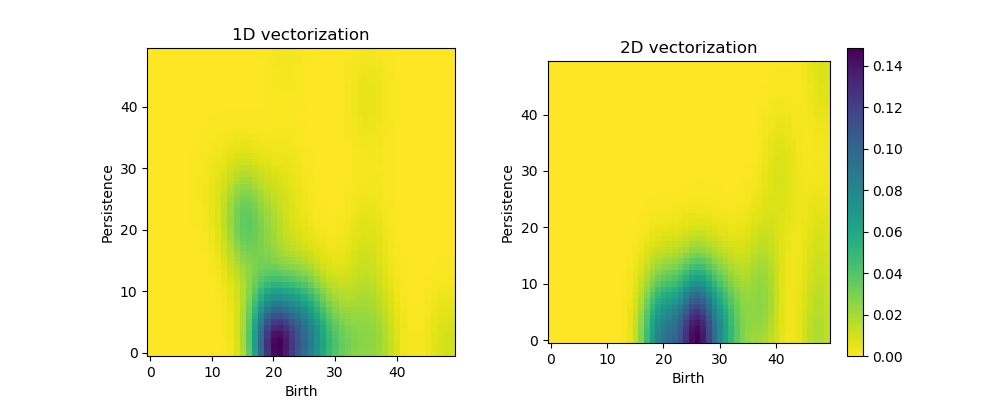
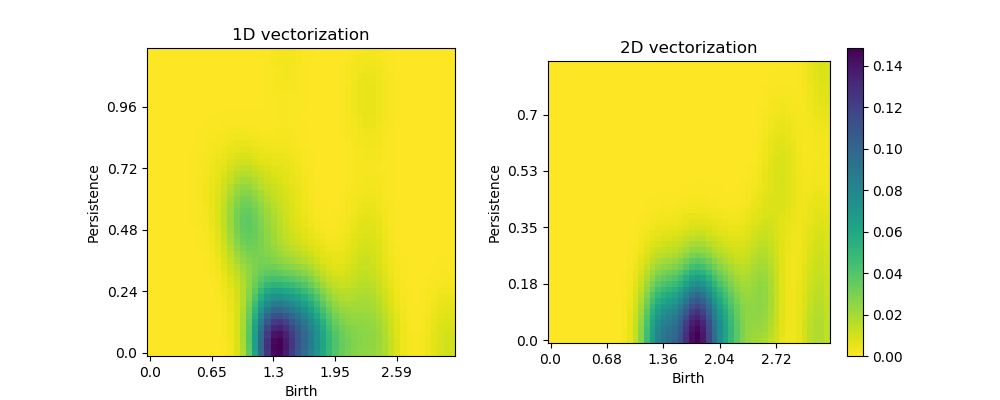
Update examples, and tick labels for images.

diff --git a/structure_to_vectorization.py b/structure_to_vectorization.py
@@ -64,6 +64,30 @@ def main(filename, supercell_size=None, spread=0.15, weighting='identity', pixel
 
     return images
 
+def tick_labels(dgm, pixel_size):
+    """Convert image units to units of the persistence diagram.
+
+    Args:
+        dgm: Array containing (birth, death) points, output of "structure_to_pd function.
+        pixel_size: Pixel size resolution for the image (int).
+    """
+    max_birth = np.max(dgm['birth'])
+    max_persistence = np.max(dgm['death'] - dgm['birth'])
+
+    ticks = np.linspace(0, pixel_size, 6)
+
+    ticklabels_x = [(max_birth/pixel_size)*i for i in ticks]
+    ticklabels_y = [(max_persistence/pixel_size)*i for i in ticks]
+
+    ticklabels_x = [round(elem, 2) for elem in ticklabels_x]
+    ticklabels_y = [round(elem, 2) for elem in ticklabels_y]
+
+    # start from (0, 0)
+    ticklabels_x.insert(0, 0)
+    ticklabels_y.insert(0, 0)
+
+    return ticklabels_x, ticklabels_y
+
 if __name__ == '__main__':
     filename = 'files/mof_structs/str_m4_o1_o1_acs_sym.10.cif'
     images = main(filename, None, 0.15, 'identity', [50, 50])

diff --git a/README.md b/README.md
@@ -20,7 +20,7 @@ pip install .
 an example persistence diagram vectorization from a structure file
 (which can then be used in other tasks, e.g., fed into a machine learning algorithm).
 
-As an example, we will start with the following metal--organic framework (MOF) and
+As an example, we will start with the following metal-organic framework (MOF) and
 construct topological summaries of all of the channels and voids in the structure:
 
 <img src="https://github.com/a1k12/molecule-tda/blob/main/figures/str_m4_o1_o1_acs_sym.10.png" width="500">
@@ -57,7 +57,7 @@ plt.show()
 
 
 Starting from `arr_dgms` (dict storing the persistence diagrams), vectorized representations
-can be generated:
+can be generated. Axes units are the same as the units of the original structure file:
 ```
 # initialize parameters for the "image" representation:
 # spread: Gaussian spread of the kernel, pixels: size of representation (n, n),
@@ -80,13 +80,20 @@ fig, axes = plt.subplots(nrows=1, ncols=2, figsize=(10, 4))
 reverse_1d = images[0][::-1, :]
 reverse_2d = images[1][::-1, :]
 
+ticklabels_x_1d, ticklabels_y_1d = tick_labels(dgm_1d, 50)
+ticklabels_x_2d, ticklabels_y_2d = tick_labels(dgm_2d, 50)
+
 oned = axes[0].imshow(reverse_1d, cmap=plt.cm.viridis_r)
 axes[0].invert_yaxis()
+axes[0].set_xticklabels(ticklabels_x_1d)
+axes[0].set_yticklabels(ticklabels_y_1d)
 axes[0].set_xlabel('Birth')
 axes[0].set_ylabel('Persistence')
 axes[0].set_title('1D vectorization')
 twod = axes[1].imshow(reverse_2d, cmap=plt.cm.viridis_r)
 axes[1].invert_yaxis()
+axes[1].set_xticklabels(ticklabels_x_2d)
+axes[1].set_yticklabels(ticklabels_y_2d)
 axes[1].set_xlabel('Birth')
 axes[1].set_ylabel('Persistence')
 axes[1].set_title('2D vectorization')
